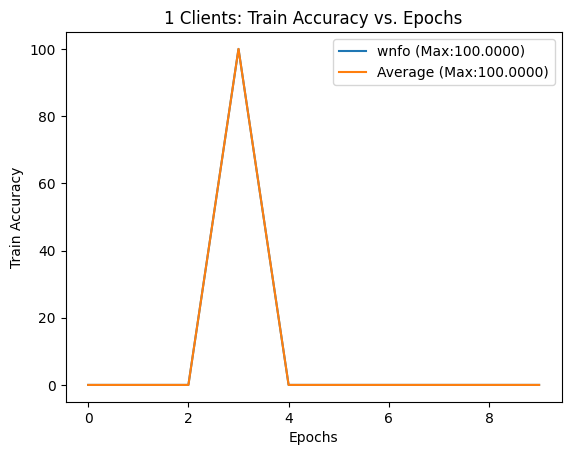
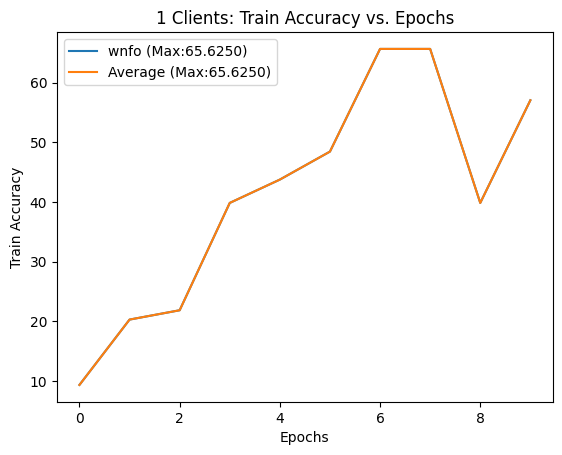
Basic common memory communication complete

diff --git a/clients.py b/clients.py
@@ -81,8 +81,8 @@ if __name__ == "__main__":
 
     dataset = 'MNIST'
     print(f'Using dataset: {dataset}')
-    train_batch_size = 1
-    test_batch_size = 1
+    train_batch_size = 128
+    test_batch_size = 128
 
     time_taken = {'forward_front':0,
                     'send_remote_activations1':0,
@@ -257,6 +257,7 @@ if __name__ == "__main__":
         # call forward prop for each client
         for _, client in clients.items():
             executor.submit(client.forward_front())
+
         # send activations to the server
         for _, client in clients.items():
             executor.submit(client.send_remote_activations1())
